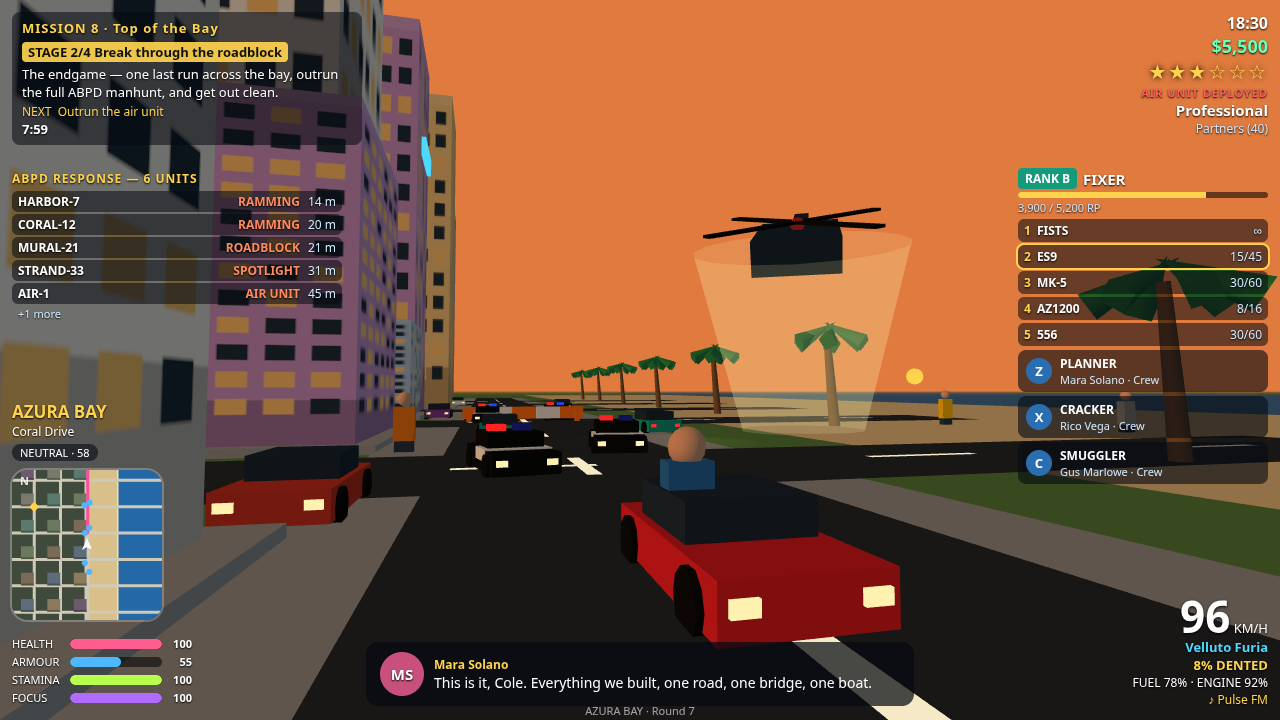
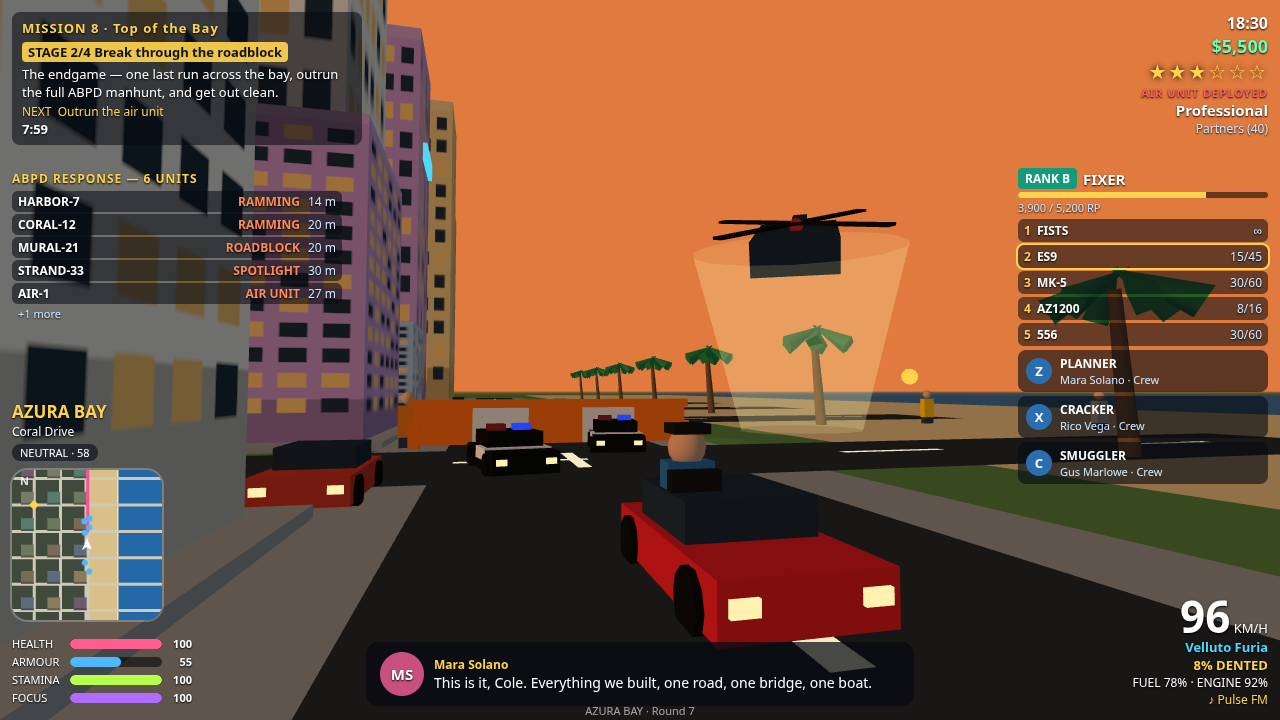
Round 7 polish (recorded r20): roadblock clearly visible in cover shot, cap + backpack character detail
Cover: barrier now 13 wide x 2.4 tall with top rail, held 22 units ahead
between the player and the two roadblock cars (was 45 units, behind the
cars, barely visible); roadblock cars scaled 1.2x with light bars flashing.
Characters: black cap + khaki backpack on the on-foot figure, cap + seat
back on the driver — reads as a person from behind, no face work, no
model rebuild. Mission logic, text, and counts (91/69/245/61) unchanged.
All 4 screenshots re-shot headless (1280x720, <=256 KiB). Selftest 46/46;
dossier byte-identical across two main.ts runs.

diff --git a/game/src/main.js b/game/src/main.js
@@ -442,6 +442,20 @@ function buildScene() {
     new THREE.MeshLambertMaterial({ color: 0x9aa0a3 }));
   gun.position.set(0.72, 1.3, -0.45);
   playerMesh.add(gun);
+  // Cheap character detail (round 7 polish): a cap and a backpack, so the
+  // figure reads as a person from behind at close range. No face work —
+  // the figure is always seen from behind.
+  const capMat = new THREE.MeshLambertMaterial({ color: 0x1a1a1a });
+  const cap = new THREE.Mesh(new THREE.BoxGeometry(0.6, 0.18, 0.6), capMat);
+  cap.position.y = 2.74;
+  playerMesh.add(cap);
+  const brim = new THREE.Mesh(new THREE.BoxGeometry(0.55, 0.08, 0.3), capMat);
+  brim.position.set(0, 2.7, -0.32);
+  playerMesh.add(brim);
+  const pack = new THREE.Mesh(new THREE.BoxGeometry(0.62, 0.9, 0.32),
+    new THREE.MeshLambertMaterial({ color: 0x5a4a2a }));
+  pack.position.set(0, 1.35, 0.42);
+  playerMesh.add(pack);
   // Shot poses frame the character close: enlarge the figure so a person
   // (not a dot) is clearly visible in every on-foot screenshot, and turn
   // it a touch toward the camera so the held weapon reads from behind.
@@ -460,6 +474,15 @@ function buildScene() {
     new THREE.MeshLambertMaterial({ color: 0xd9a986 }));
   dHead.position.y = 2.05;
   driver.add(dHead);
+  // Cap + seat back, so the driver reads as a seated person, not a
+  // floating head + shoulders.
+  const dCap = new THREE.Mesh(new THREE.BoxGeometry(0.55, 0.15, 0.55), capMat);
+  dCap.position.y = 2.32;
+  driver.add(dCap);
+  const dSeat = new THREE.Mesh(new THREE.BoxGeometry(0.75, 0.8, 0.22),
+    new THREE.MeshLambertMaterial({ color: 0x1a1a1a }));
+  dSeat.position.set(0, 1.35, 0.32);
+  driver.add(dSeat);
   driver.position.set(-0.55, 0, -0.3);
   playerCar.add(driver);
   playerCar.position.set(90, 0, 20);
@@ -496,24 +519,31 @@ function buildScene() {
     door.position.set(0, 0.75, 0.4);
     pc.add(door);
     pc.position.set(startX + spawnOffsets[i][0], 0, startZ + spawnOffsets[i][1]);
+    if (i >= 4) pc.scale.setScalar(1.2); // Roadblock cars read larger.
     scene.add(pc);
     policeCars.push(pc);
   }
-  // Roadblock barrier: striped barricade held ahead of the player on the road.
+  // Roadblock barrier: striped barricade held ahead of the player on the
+  // road. Round 7 polish: taller + wider (13 wide, 2.4 tall with a top
+  // rail) and held closer (30 units ahead), so it reads clearly in the
+  // cover shot instead of a small distant stripe.
   barrierMesh = new THREE.Group();
   const barMat = new THREE.MeshLambertMaterial({ color: 0xff7a1a });
   const barMat2 = new THREE.MeshLambertMaterial({ color: 0xecf0f1 });
   for (let i = 0; i < 5; i++) {
-    const seg = new THREE.Mesh(new THREE.BoxGeometry(2, 1, 0.4), i % 2 === 0 ? barMat : barMat2);
-    seg.position.set(-4 + i * 2, 0.9, 0);
+    const seg = new THREE.Mesh(new THREE.BoxGeometry(2.6, 1.7, 0.5), i % 2 === 0 ? barMat : barMat2);
+    seg.position.set(-5.2 + i * 2.6, 1.15, 0);
     barrierMesh.add(seg);
   }
-  for (const x of [-4.5, 4.5]) {
-    const leg = new THREE.Mesh(new THREE.BoxGeometry(0.4, 1, 0.4), barMat);
-    leg.position.set(x, 0.5, 0);
+  const rail = new THREE.Mesh(new THREE.BoxGeometry(13.4, 0.4, 0.45), barMat);
+  rail.position.set(0, 2.2, 0);
+  barrierMesh.add(rail);
+  for (const x of [-6.5, 6.5]) {
+    const leg = new THREE.Mesh(new THREE.BoxGeometry(0.5, 1.3, 0.5), barMat);
+    leg.position.set(x, 0.65, 0);
     barrierMesh.add(leg);
   }
-  barrierMesh.position.set(90, 0, -25);
+  barrierMesh.position.set(90, 0, -2);
   scene.add(barrierMesh);
 
   // Helicopter: body, tail, beacon, spinning rotor, and a spotlight cone
@@ -666,10 +696,17 @@ function loop() {
       pc.userData.barB.material.color.setHex(on ? 0x111155 : 0x2244ff);
     }
     if (i >= 4 && pose.drive) {
-      // Roadblock stays ahead of the player car, on the road.
-      pc.position.z = pz - 45 - (i - 4) * 3;
+      // Roadblock stays ahead of the player car, on the road — close
+      // enough (22–30 units) that the barrier + cars read clearly in the
+      // cover shot, with light bars flashing. The barrier sits BETWEEN
+      // the player and the two cars, so it is the nearest, most
+      // prominent element instead of hiding behind them.
+      pc.position.z = pz - 27 - (i - 4) * 3;
       pc.position.x = roadX + (i === 4 ? -3 : 3);
-      if (barrierMesh) { barrierMesh.position.z = pz - 45; barrierMesh.position.x = roadX; }
+      if (barrierMesh) { barrierMesh.position.z = pz - 22; barrierMesh.position.x = roadX; }
+      const on = Math.floor(state.time * 6) % 2 === 0;
+      pc.userData.barR.material.color.setHex(on ? 0xff2222 : 0x551111);
+      pc.userData.barB.material.color.setHex(on ? 0x111155 : 0x2244ff);
     }
   });
   // Helicopter circles just ahead of the player, low, east of the road over
